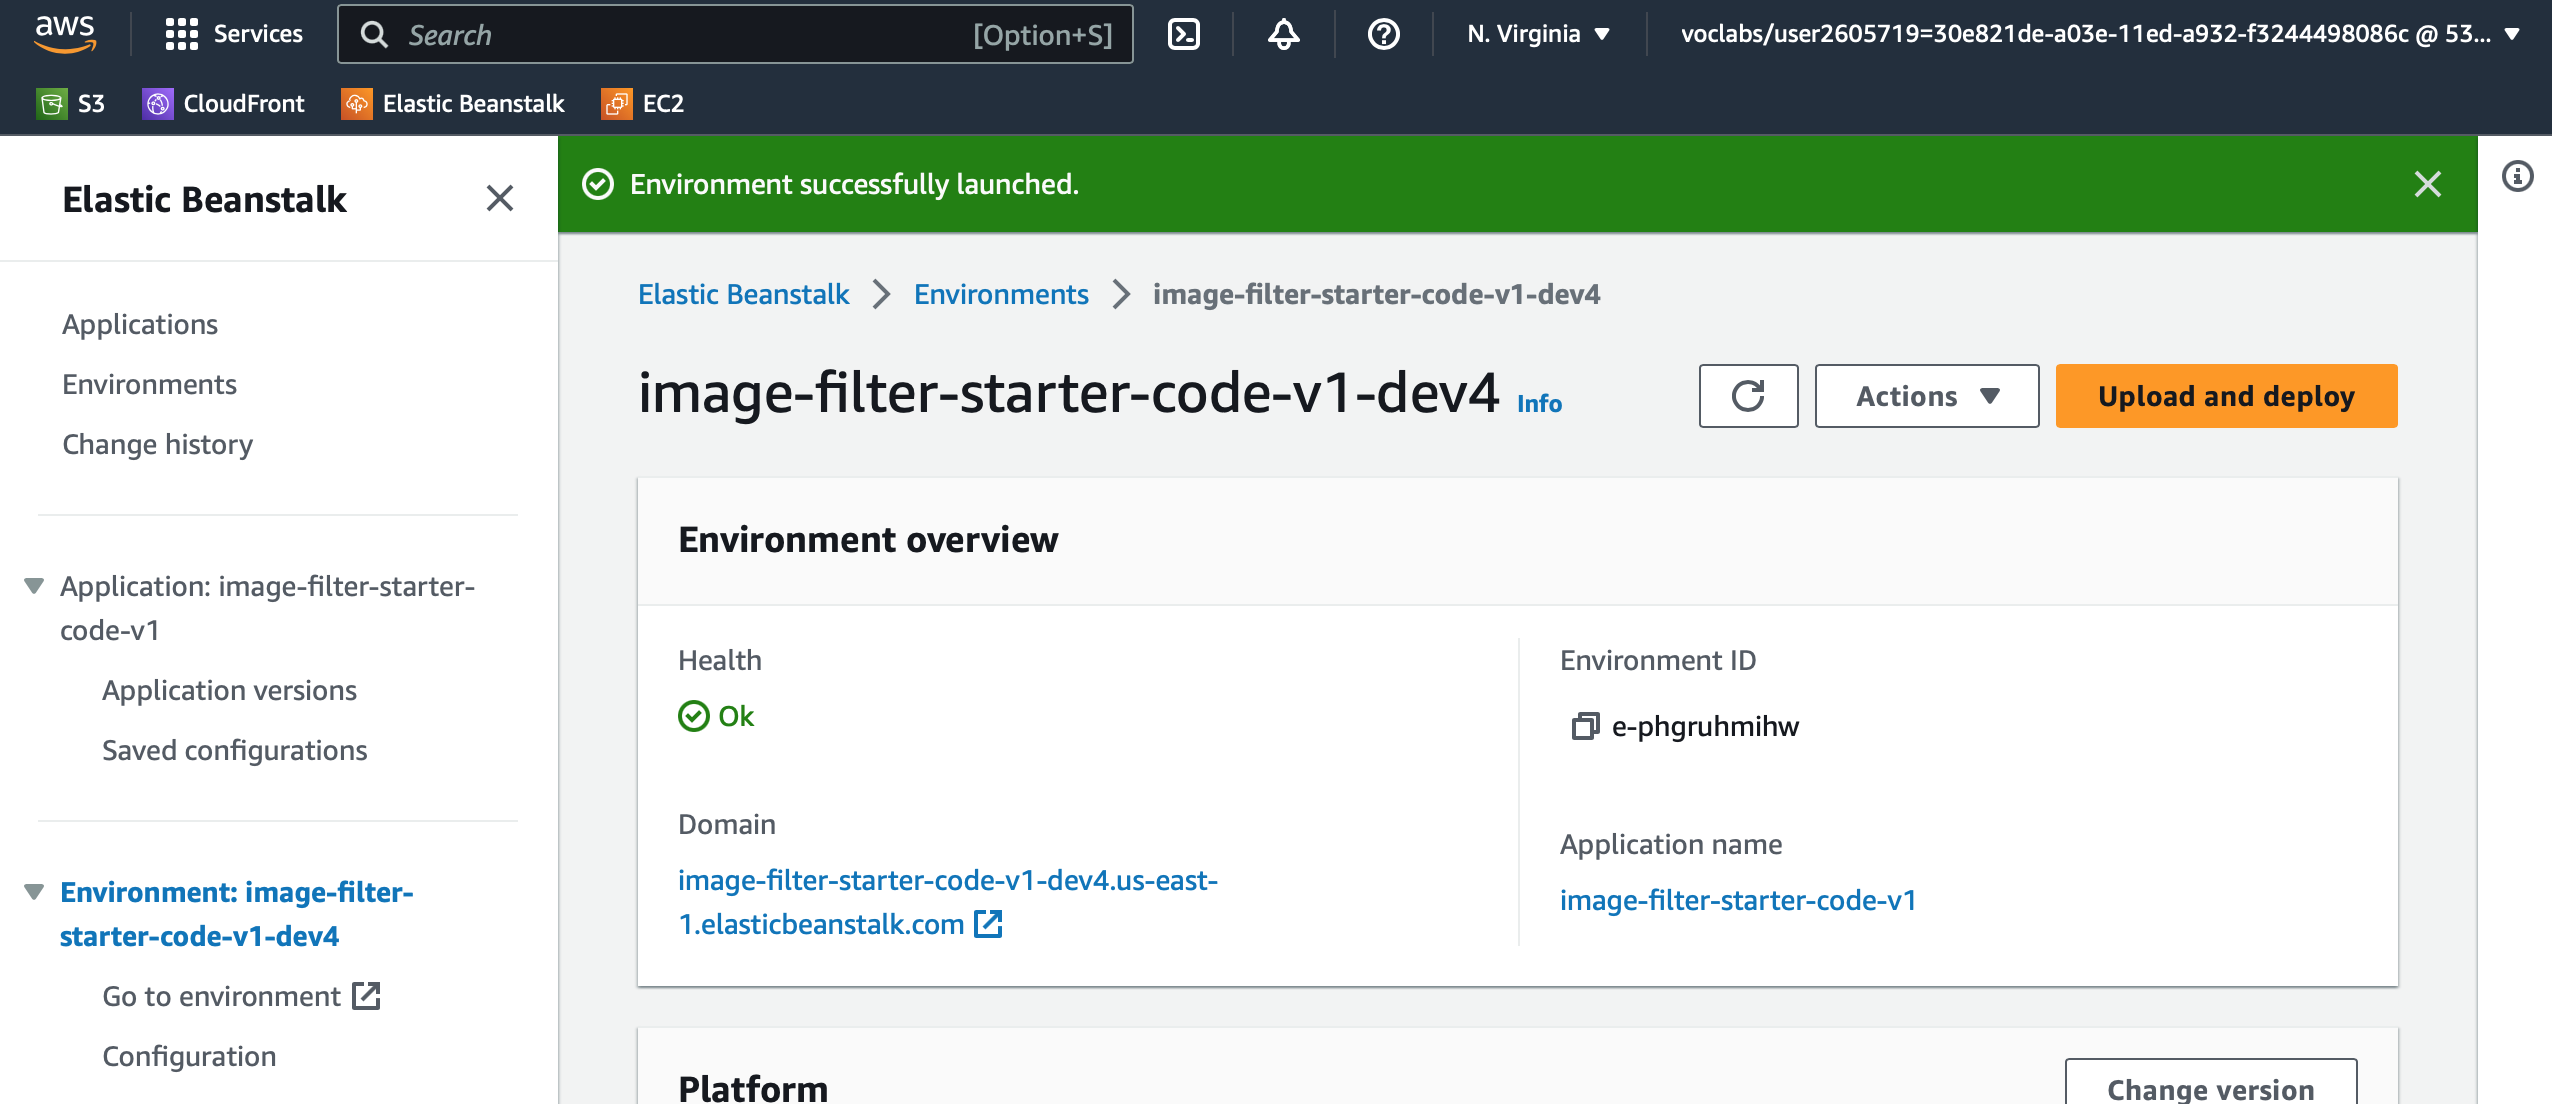
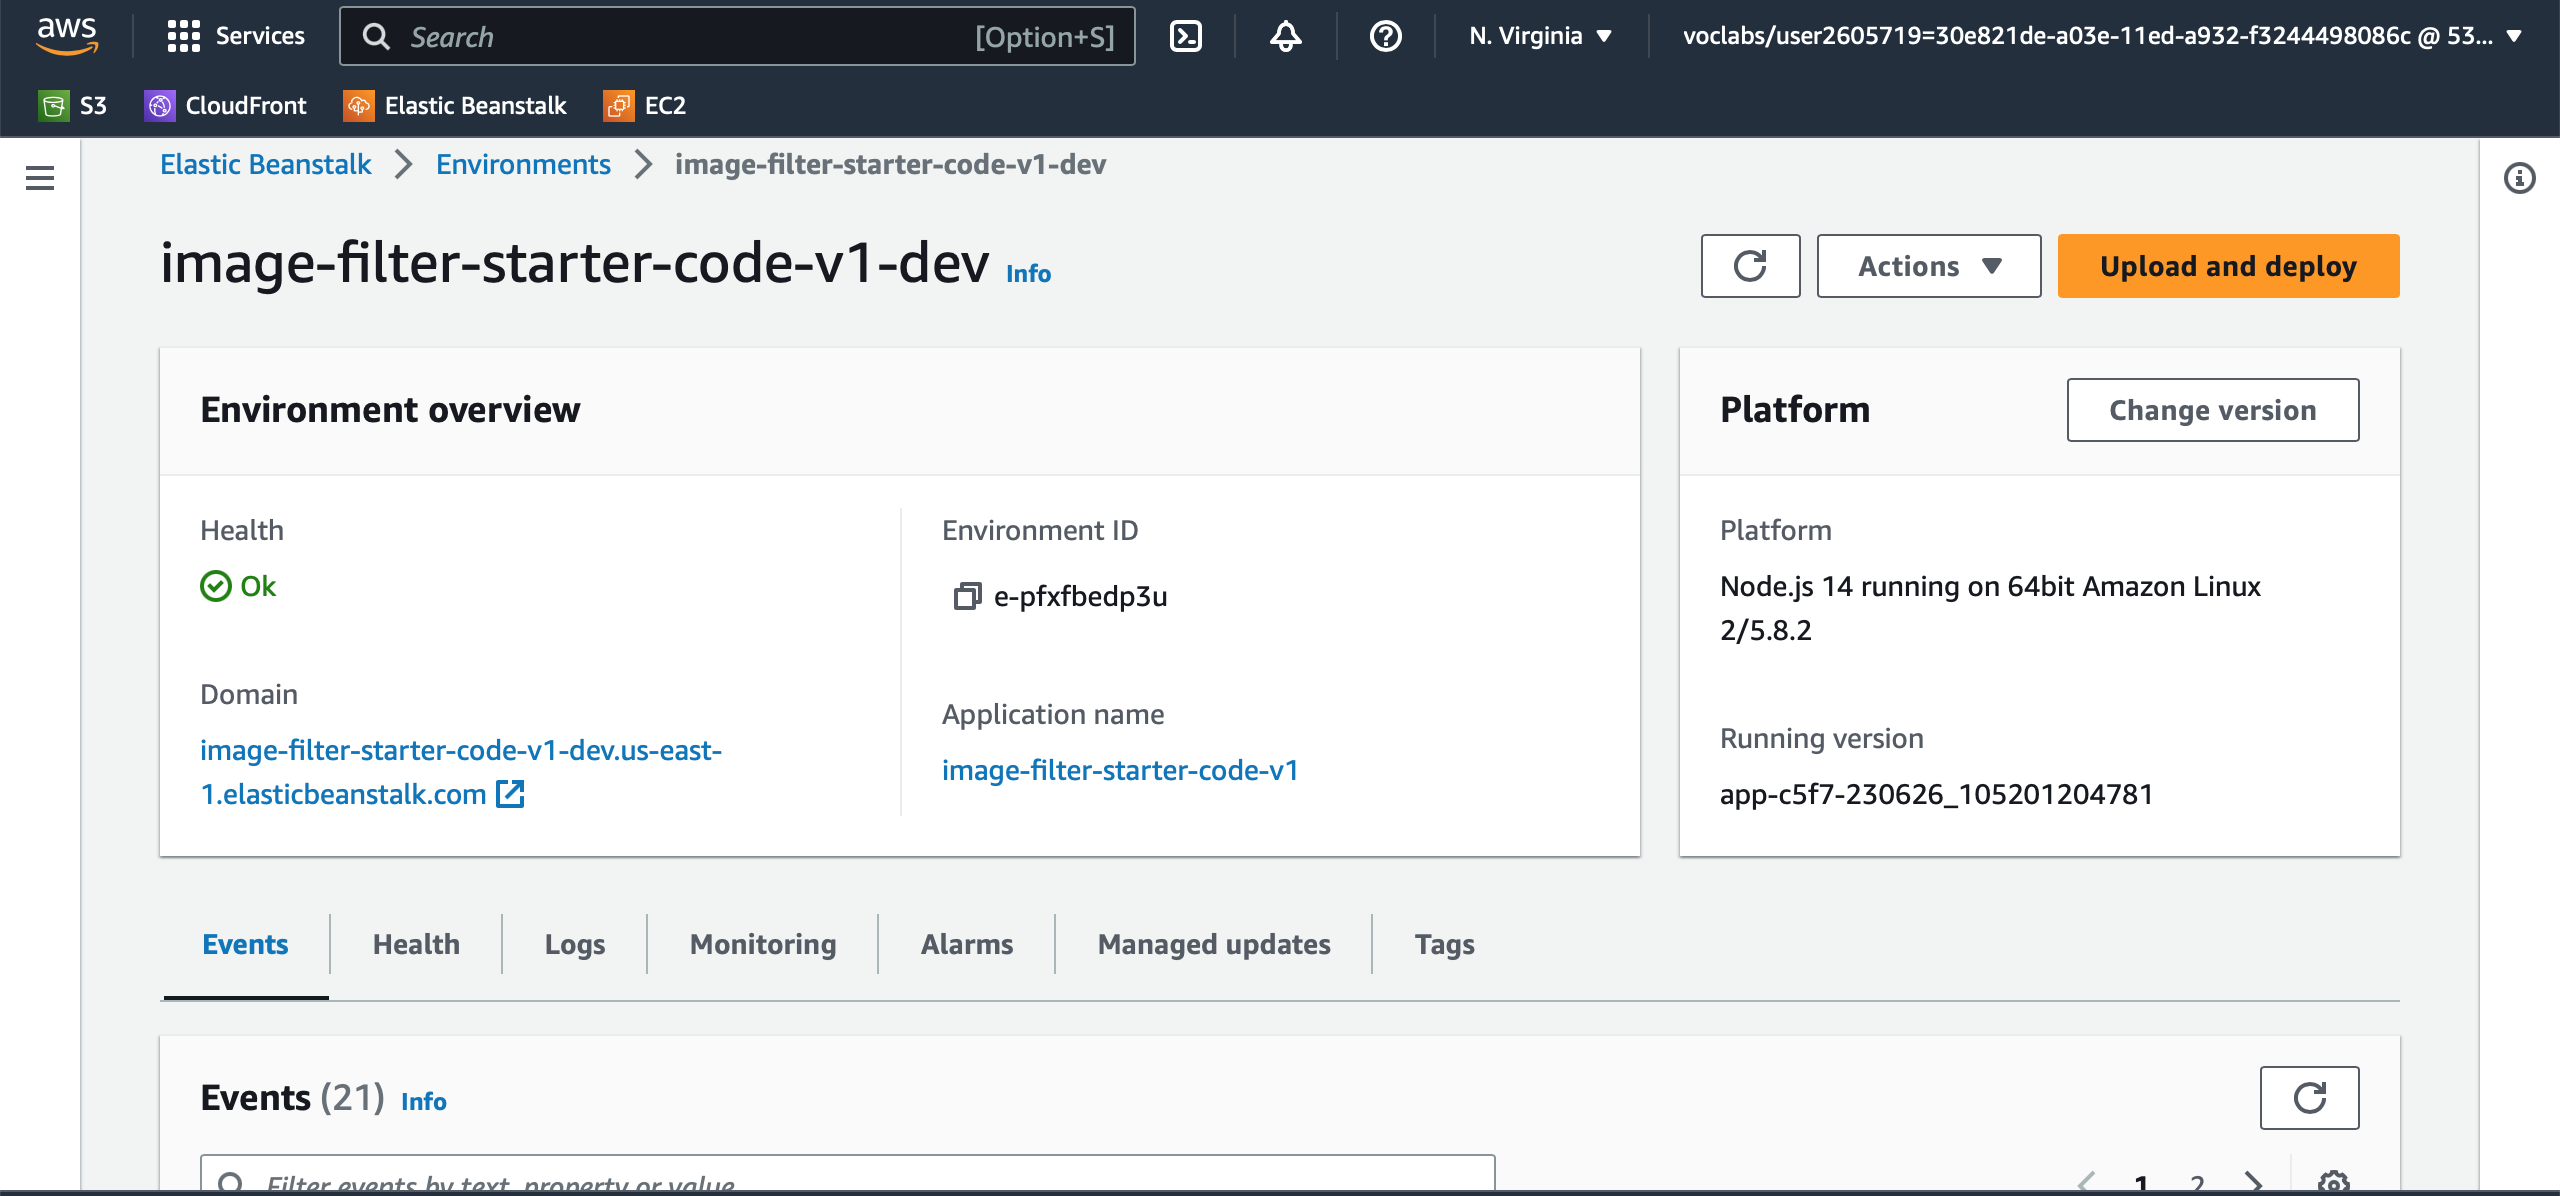
update readme and upload screenshot

diff --git a/README.md b/README.md
@@ -1,6 +1,6 @@
 - Get image: 
-    + url: http://image-filter-starter-code-v1-dev4.us-east-1.elasticbeanstalk.com/filteredimage?image_url=https://picsum.photos/200/300
+    + url: http://image-filter-starter-code-v1-dev.us-east-1.elasticbeanstalk.com/filteredimage?image_url=https://upload.wikimedia.org/wikipedia/commons/b/bd/Golden_tabby_and_white_kitten_n01.jpg
     + Method: GET
 - Clear images: 
-    + url: http://image-filter-starter-code-v1-dev4.us-east-1.elasticbeanstalk.com/clear
+    + url: http://image-filter-starter-code-v1-dev.us-east-1.elasticbeanstalk.com/clear
     + Method: Delete
